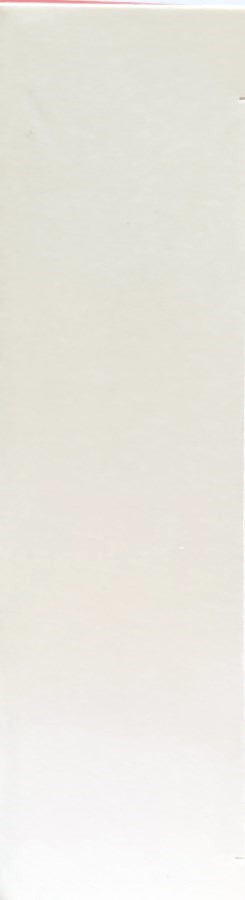
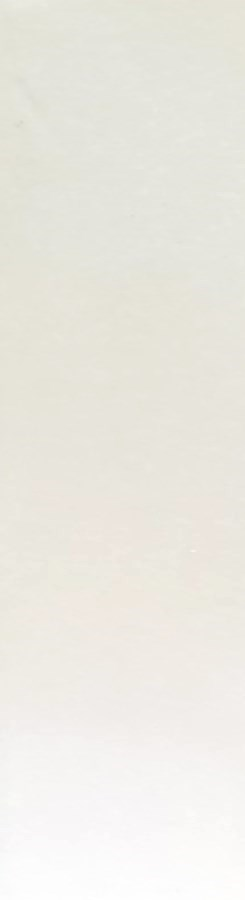
fix: real proportions for syrup and Mantazol boxes; remove Pantactive 40 edge shadow

Changed region(s): [[0.0, 0.0, 1.0, 0.0311]]

diff --git a/src/pages/HomePage.tsx b/src/pages/HomePage.tsx
@@ -359,9 +359,11 @@ const ITEM_IMAGES: ItemImage[] = [
   texturedBox(n => n.includes('ziver'), 'ziver-3', 0.38),
   texturedBox(n => n.includes('pantactive') && /\b20\b|20\s*mg/.test(n), 'pantactive-20', 0.17),
   texturedBox(n => n.includes('pantactive') && /\b40\b|40\s*mg/.test(n), 'pantactive-40', 0.17),
-  // علبة الشراب واقفة (أطول من عرضها) — النسبة تُقرأ من صورة الوجه الأمامي نفسها
-  texturedBox(n => n.includes('amoklavin') && /457|syr/.test(n), 'amoklavin-457-syrup', 0.95),
-  texturedBox(n => n.includes('mantazol'), 'mantazol', 0.86),
+  // ⚠ depth نسبةً إلى **ارتفاع** الوجه لا عرضه. علبة الشراب واقفة (عرض≈نصف الارتفاع) ومقطعها
+  // مربّع تقريباً، فعمقها ≈ عرضها ≈ 0.5 من الارتفاع — كانت 0.95 فبدت الجوانب ضعف حجمها.
+  // Mantazol: طرفها في الصور ≈ نصف ارتفاعها (كانت 0.86 فكبر الطرف والسقف عن الواقع).
+  texturedBox(n => n.includes('amoklavin') && /457|syr/.test(n), 'amoklavin-457-syrup', 0.5),
+  texturedBox(n => n.includes('mantazol'), 'mantazol', 0.5),
 ];
 /** علبة بصور أوجهها الأربعة في public/items/<dir>/{front,left,right,top}.jpg */
 function texturedBox(match: (n: string) => boolean, dir: string, depth: number): ItemImage {
